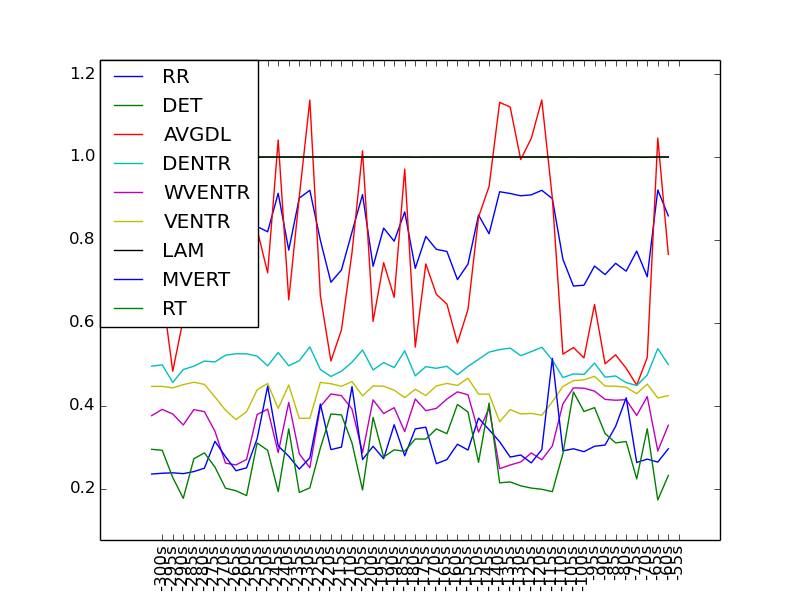
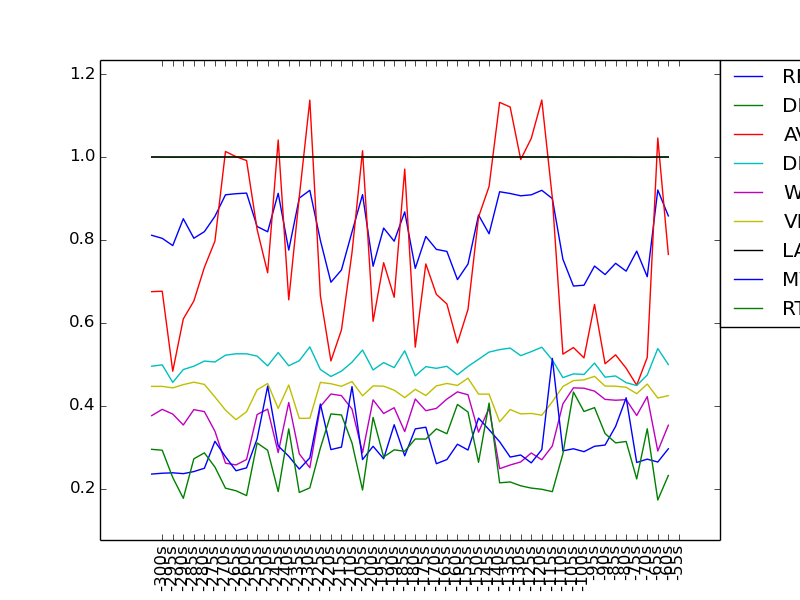
rqa plot saala' '

diff --git a/data_extraction/make_rqa_plots.py b/data_extraction/make_rqa_plots.py
@@ -31,6 +31,6 @@ plt.plot(ventr,label="VENTR")
 plt.plot(lam,label="LAM")
 plt.plot(mvert,label="MVERT")
 plt.plot(rt,label="RT")
-plt.legend(loc=2, borderaxespad=0.)
+plt.legend(bbox_to_anchor=(1,0,1,1),loc=2, borderaxespad=0.)
 
 plt.savefig('rqa_vt.png')
